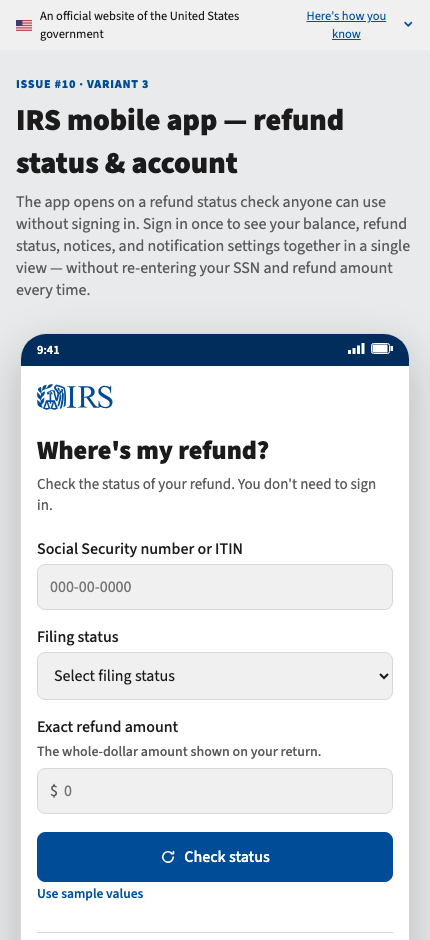
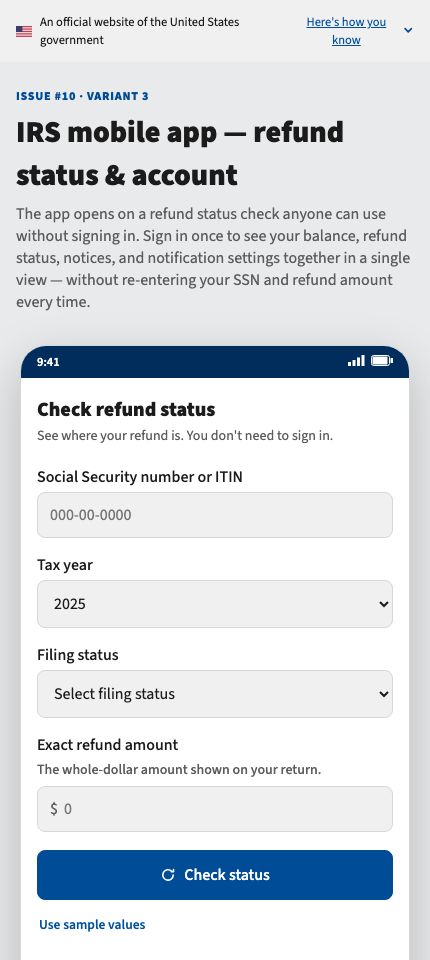
fix: accessibility audit pass on mobile-app-v3 (#10)
WCAG 2.2 / Section 508 inclusive-design audit (Fable lens):
- Semantics: role=application -> role=group; wrap scroll content in <main>.
- Labels/inputs: drop placeholder-as-label on SSN/amount/sign-in fields;
  add persistent hints, name, autocomplete, aria-describedby.
- Touch targets: >=44px on sample-values, sign-out, banner toggle, switches.
- Status/feedback: refund result gets role=status + aria-live + focus move;
  unread notices carry SR-only 'Unread.' text; switch ARIA uses aria-checked
  only (drop redundant aria-pressed).
- Focus visibility: consistent :focus-visible ring on all controls.

diff --git a/mobile-app-v3/index.html b/mobile-app-v3/index.html
@@ -310,7 +310,7 @@
 
       <div class="appbody">
 
-      <div class="screen" id="screen">
+      <main class="screen" id="screen" aria-label="IRS mobile app content">
         <!-- ================= GUEST VIEW ================= -->
         <section id="view-guest">
           <div class="greet">
@@ -321,11 +321,12 @@
           <form class="card" id="refund-form" autocomplete="off" novalidate>
             <div class="field">
               <label for="rf-ssn">Social Security number or ITIN</label>
-              <input id="rf-ssn" type="text" inputmode="numeric" placeholder="000-00-0000" enterkeyhint="next">
+              <span class="fhint" id="rf-ssn-hint">Format: 000-00-0000</span>
+              <input id="rf-ssn" name="ssn" type="text" inputmode="numeric" autocomplete="off" aria-describedby="rf-ssn-hint" enterkeyhint="next">
             </div>
             <div class="field">
               <label for="rf-year">Tax year</label>
-              <select id="rf-year">
+              <select id="rf-year" name="tax-year">
                 <option>2025</option>
                 <option>2024</option>
                 <option>2023</option>
@@ -334,7 +335,7 @@
             </div>
             <div class="field">
               <label for="rf-status">Filing status</label>
-              <select id="rf-status">
+              <select id="rf-status" name="filing-status">
                 <option value="">Select filing status</option>
                 <option>Single</option>
                 <option>Married filing jointly</option>
@@ -345,14 +346,14 @@
             </div>
             <div class="field">
               <label for="rf-amt">Exact refund amount</label>
-              <span class="fhint">The whole-dollar amount shown on your return.</span>
-              <div class="amtwrap"><span class="cur" aria-hidden="true">$</span><input id="rf-amt" type="text" inputmode="decimal" placeholder="0" enterkeyhint="go"></div>
+              <span class="fhint" id="rf-amt-hint">The whole-dollar amount shown on your return.</span>
+              <div class="amtwrap"><span class="cur" aria-hidden="true">$</span><input id="rf-amt" name="refund-amount" type="text" inputmode="decimal" aria-describedby="rf-amt-hint" enterkeyhint="go"></div>
             </div>
             <button class="pbtn" id="rf-submit" type="submit"><svg class="ic" viewBox="0 0 16 16" aria-hidden="true"><g fill="none" stroke="currentColor" stroke-width="1.6" stroke-linecap="round" stroke-linejoin="round"><path d="M13.2 8a5.2 5.2 0 1 1-1.6-3.8"/><path d="M13.5 2.5v2.2h-2.2"/></g></svg> Check status</button>
             <button class="fill" id="rf-fill" type="button">Use sample values</button>
           </form>
 
-          <div class="statusbox" id="refund-result" hidden>
+          <div class="statusbox" id="refund-result" role="status" aria-live="polite" hidden>
             <div class="sbhead"><span class="wl" style="font-size:12.5px;font-weight:700;letter-spacing:.06em;text-transform:uppercase;color:var(--muted)">Refund status &middot; Tax year <span id="rf-result-year">2025</span></span><span class="chip ok">Approved</span></div>
             <div style="font-size:22px;font-weight:900;letter-spacing:-.5px;margin:2px 0 2px">$1,004.00</div>
             <p class="sbsub">Direct deposit to account ending 2288.</p>
@@ -371,11 +372,11 @@
               <p class="simple">Sign in to skip this next time and see your balance, notices, and settings together.</p>
               <div class="field">
                 <label for="si-email">Email or username</label>
-                <input id="si-email" type="text" placeholder="you@example.com" enterkeyhint="next">
+                <input id="si-email" name="username" type="text" autocomplete="username" enterkeyhint="next">
               </div>
               <div class="field">
                 <label for="si-pass">Password</label>
-                <input id="si-pass" type="password" placeholder="Password" enterkeyhint="go">
+                <input id="si-pass" name="password" type="password" autocomplete="current-password" enterkeyhint="go">
               </div>
               <button class="pbtn" id="si-submit" type="submit"><svg class="ic" viewBox="0 0 16 16" aria-hidden="true"><g fill="none" stroke="currentColor" stroke-width="1.6" stroke-linecap="round" stroke-linejoin="round"><rect x="3.5" y="7" width="9" height="6.5"/><path d="M5.5 7V5a2.5 2.5 0 0 1 5 0v2"/></g></svg> Sign in</button>
             </form>
@@ -420,14 +421,14 @@
 
           <div class="sechead"><h2>Notices</h2></div>
           <div class="module">
-            <button class="row unread" id="a-cp14"><span class="ri" aria-hidden="true"><svg class="ic" viewBox="0 0 16 16"><g fill="none" stroke="currentColor" stroke-width="1.6" stroke-linecap="round" stroke-linejoin="round"><rect x="2" y="3.5" width="12" height="9"/><path d="m2.5 4.5 5.5 4 5.5-4"/></g></svg></span><span class="rc"><span class="rt">CP14 &mdash; Balance due</span><span class="rs">Apr 05, 2026</span></span><span class="reddot" aria-hidden="true"></span><span class="chip warn">Action</span></button>
-            <button class="row unread" id="a-cp49"><span class="ri" aria-hidden="true"><svg class="ic" viewBox="0 0 16 16"><g fill="none" stroke="currentColor" stroke-width="1.6" stroke-linecap="round" stroke-linejoin="round"><rect x="2" y="3.5" width="12" height="9"/><path d="m2.5 4.5 5.5 4 5.5-4"/></g></svg></span><span class="rc"><span class="rt">CP49 &mdash; Refund applied</span><span class="rs">Mar 12, 2026</span></span><span class="reddot" aria-hidden="true"></span><span class="chip info">Info</span></button>
+            <button class="row unread" id="a-cp14"><span class="ri" aria-hidden="true"><svg class="ic" viewBox="0 0 16 16"><g fill="none" stroke="currentColor" stroke-width="1.6" stroke-linecap="round" stroke-linejoin="round"><rect x="2" y="3.5" width="12" height="9"/><path d="m2.5 4.5 5.5 4 5.5-4"/></g></svg></span><span class="rc"><span class="rt"><span class="visually-hidden">Unread. </span>CP14 &mdash; Balance due</span><span class="rs">Apr 05, 2026</span></span><span class="reddot" aria-hidden="true"></span><span class="chip warn">Action</span></button>
+            <button class="row unread" id="a-cp49"><span class="ri" aria-hidden="true"><svg class="ic" viewBox="0 0 16 16"><g fill="none" stroke="currentColor" stroke-width="1.6" stroke-linecap="round" stroke-linejoin="round"><rect x="2" y="3.5" width="12" height="9"/><path d="m2.5 4.5 5.5 4 5.5-4"/></g></svg></span><span class="rc"><span class="rt"><span class="visually-hidden">Unread. </span>CP49 &mdash; Refund applied</span><span class="rs">Mar 12, 2026</span></span><span class="reddot" aria-hidden="true"></span><span class="chip info">Info</span></button>
             <button class="row" id="a-accept"><span class="ri" aria-hidden="true"><svg class="ic" viewBox="0 0 16 16"><g fill="none" stroke="currentColor" stroke-width="1.6" stroke-linecap="round" stroke-linejoin="round"><rect x="2" y="3.5" width="12" height="9"/><path d="m2.5 4.5 5.5 4 5.5-4"/></g></svg></span><span class="rc"><span class="rt">Return acceptance</span><span class="rs">Feb 28, 2026</span></span><span class="chip ok">Read</span></button>
           </div>
 
         </section>
 
-      </div><!-- /screen -->
+      </main><!-- /screen -->
         <!-- ================= SETTINGS SHEET (avatar → communication prefs + sign out) ================= -->
         <div class="sheet-backdrop" id="settings-backdrop" hidden></div>
         <aside class="sheet" id="settings-sheet" role="dialog" aria-modal="true" aria-label="Settings" hidden>
@@ -443,11 +444,11 @@
           <h3 class="sheet-sub">Communication preferences</h3>
           <div class="pref">
             <span class="pc"><span class="pt">Email notifications</span><span class="ps">Get an email when a new notice or refund update posts.</span></span>
-            <button class="toggle" id="pref-email" type="button" role="switch" aria-checked="true" aria-pressed="true" aria-label="Email notifications"><span class="state">On</span><span class="box" aria-hidden="true"><svg class="ic" viewBox="0 0 16 16"><path d="M3 8.5 6.5 12 13 4.5" fill="none" stroke="currentColor" stroke-width="1.6" stroke-linecap="round" stroke-linejoin="round"/></svg></span></button>
+            <button class="toggle" id="pref-email" type="button" role="switch" aria-checked="true" aria-label="Email notifications"><span class="state">On</span><span class="box" aria-hidden="true"><svg class="ic" viewBox="0 0 16 16"><path d="M3 8.5 6.5 12 13 4.5" fill="none" stroke="currentColor" stroke-width="1.6" stroke-linecap="round" stroke-linejoin="round"/></svg></span></button>
           </div>
           <div class="pref">
             <span class="pc"><span class="pt">Go paperless</span><span class="ps">Receive notices online instead of by mail.</span></span>
-            <button class="toggle" id="pref-paperless" type="button" role="switch" aria-checked="false" aria-pressed="false" aria-label="Go paperless"><span class="state">Off</span><span class="box" aria-hidden="true"><svg class="ic" viewBox="0 0 16 16"><path d="M3 8.5 6.5 12 13 4.5" fill="none" stroke="currentColor" stroke-width="1.6" stroke-linecap="round" stroke-linejoin="round"/></svg></span></button>
+            <button class="toggle" id="pref-paperless" type="button" role="switch" aria-checked="false" aria-label="Go paperless"><span class="state">Off</span><span class="box" aria-hidden="true"><svg class="ic" viewBox="0 0 16 16"><path d="M3 8.5 6.5 12 13 4.5" fill="none" stroke="currentColor" stroke-width="1.6" stroke-linecap="round" stroke-linejoin="round"/></svg></span></button>
           </div>
           <button class="lnkbtn signout-sheet" id="a-signout"><svg class="ic" viewBox="0 0 16 16" aria-hidden="true"><g fill="none" stroke="currentColor" stroke-width="1.6" stroke-linecap="round" stroke-linejoin="round"><path d="M10 11.5 13.5 8 10 4.5M13.5 8H6M6 2.5H3v11h3"/></g></svg> Sign out</button>
         </aside>
@@ -487,7 +488,9 @@
       var yr=document.getElementById("rf-year"), out=document.getElementById("rf-result-year");
       if(yr&&out) out.textContent=yr.value;
       result.hidden=false;
+      result.setAttribute("tabindex","-1");
       result.scrollIntoView({behavior:"smooth",block:"center"});
+      result.focus({preventScroll:true});
     });
     fill.addEventListener("click",function(){
       document.getElementById("rf-ssn").value="•••-••-4821";
@@ -527,15 +530,15 @@
       if(!btn.classList.contains("unread")) return;
       btn.classList.remove("unread");
       var dot=btn.querySelector(".reddot"); if(dot) dot.remove();
+      var sr=btn.querySelector(".rt .visually-hidden"); if(sr) sr.remove();
     }
     ["a-cp14","a-cp49","a-accept"].forEach(function(id){ var b=document.getElementById(id); if(b) b.addEventListener("click",function(){readNotice(b);}); });
 
-    /* ---- preference toggles ---- */
+    /* ---- preference toggles (role=switch → aria-checked) ---- */
     function wireToggle(id){
       var t=document.getElementById(id); if(!t) return;
       t.addEventListener("click",function(){
-        var on=t.getAttribute("aria-pressed")!=="true";
-        t.setAttribute("aria-pressed",on?"true":"false");
+        var on=t.getAttribute("aria-checked")!=="true";
         t.setAttribute("aria-checked",on?"true":"false");
         t.querySelector(".state").textContent=on?"On":"Off";
       });
